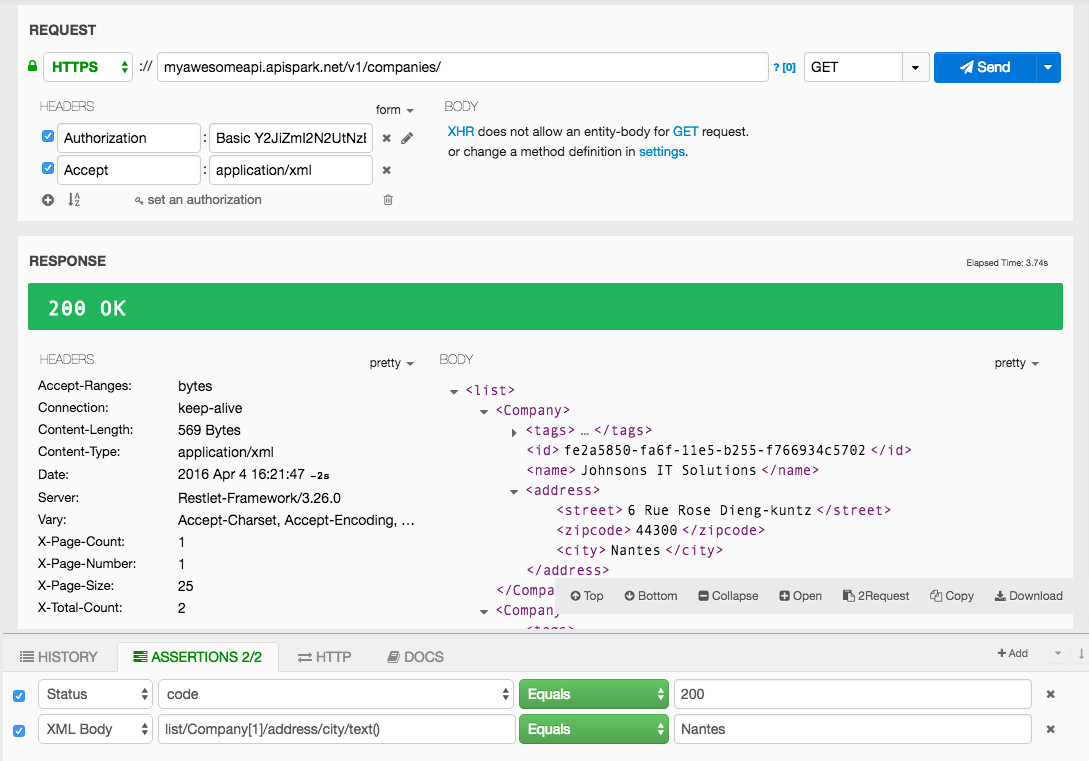
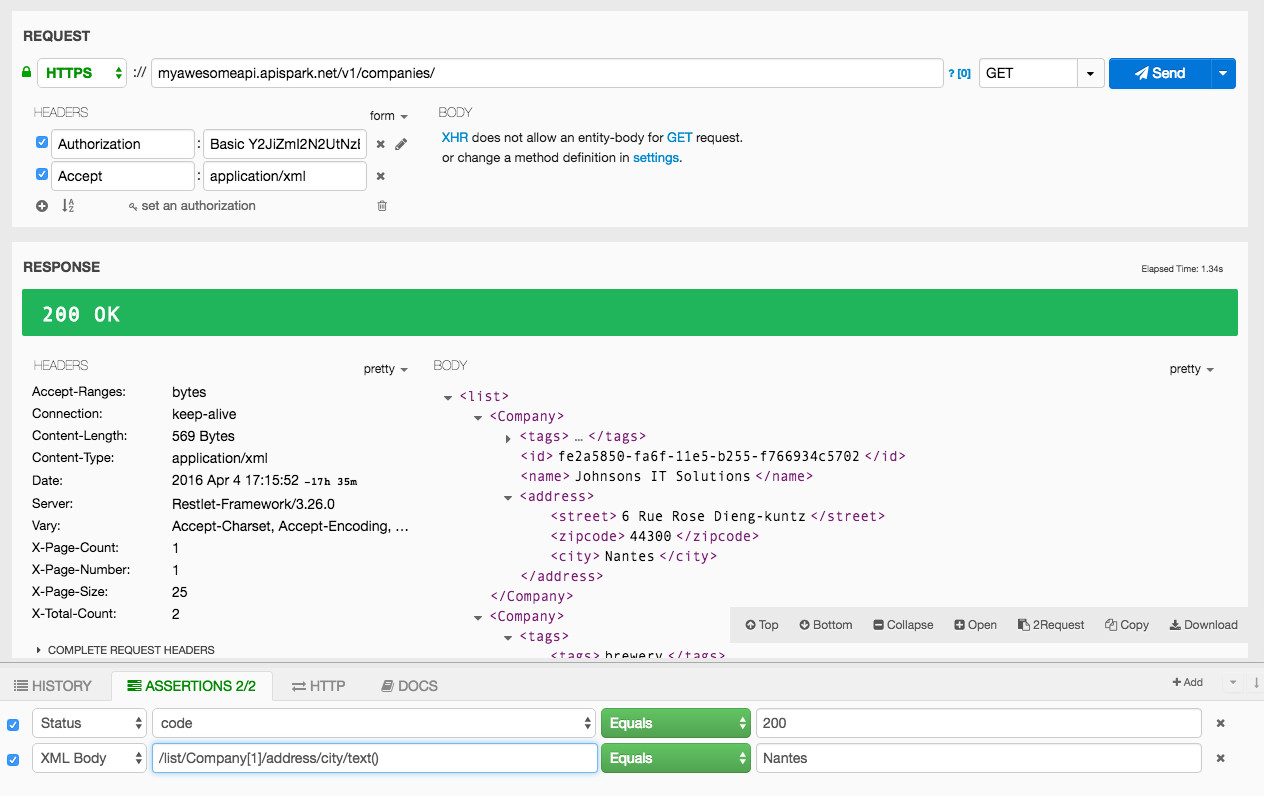
DHC_Updated Path section

Changed region(s): [[0.0, 0.3022, 0.9991, 0.9974], [0.0, 0.0302, 0.9991, 0.272]]

diff --git a/modules/com.restlet/tech-doc/dhc/guide/02_perform-requests/03_assertions/04_json-payloads.md b/modules/com.restlet/tech-doc/dhc/guide/02_perform-requests/03_assertions/04_json-payloads.md
@@ -6,7 +6,7 @@ Here are a few hints to help you use JSON payloads:
 
 - The dollar sign ```$``` identifies the root object of the JSON content. Then you can iterate over attributes and sub attributes. The language natively supports arrays.
 
-- The dot sign ```.``` allows you to get attributes of an object. This can be done recursively according to the depth of the data graph.
+- The dot sign ```.``` allows you to get attributes of an object or to go deeper in the tree.
 
 - The square brackets ```[]``` target arrays and allow the selection of a particular element in them.
 
@@ -32,18 +32,24 @@ The following sample describes how to check the content of an array:
 
 # <a class="anchor" name="xpath"></a>Use XPath for XML payloads
 
+Note that XPath expressions have a directory-path-like syntax.
+
 Here are a few tips to help you work with XML payloads:
 
-- ```list``` identifies the root object of the XML content. Then you can iterate over attributes and sub attributes. The language natively supports arrays.
+- A single ```/``` selects from the root node.
 
-- The slash sign ```/``` allows you to get attributes of an object. This can be done recursively according to the depth of the data graph.
+- ```/list``` identifies the "list object" at the top level of the XML document. Then you can iterate over attributes and sub attributes. The language natively supports arrays.
 
-- The square brackets ```[]``` target arrays and allow the selection of a particular element in them.
+- The slash sign ```/``` allows you to get attributes of an object or to go deeper in the tree.
 
-- ```text()``` will allow you to enter text expressions.
+- The square brackets ```[]``` enable to select a specific item in an array by its position. Please note that the index starts from 1.
 
-In the following example, the expression **list/Company[1]/address/city/text()** corresponds to the city contained in the address of the first Company.
+- ```/text()``` allows you to get a node inner text.
+
+- ```//``` selects nodes in the document from the current node that match the selection no matter where they are.
+
+In the following example, the expression **/list/Company[1]/address/city/text()** corresponds to the name of the city contained in the address of the first Company.
 
 ![XML value](images/xml-payload.jpg "XML value")
 
-For more information on XML Path language, head over to the <a href="https://www.w3.org/TR/xpath/" target="_blank">W3C recommendations</a>.
+For more information on the <a href="http://www.w3schools.com/xsl/xpath_syntax.asp" target="_blank">XPath syntax</a>, head over to the <a href="https://www.w3.org/TR/xpath/" target="_blank">official W3C specification</a>.
